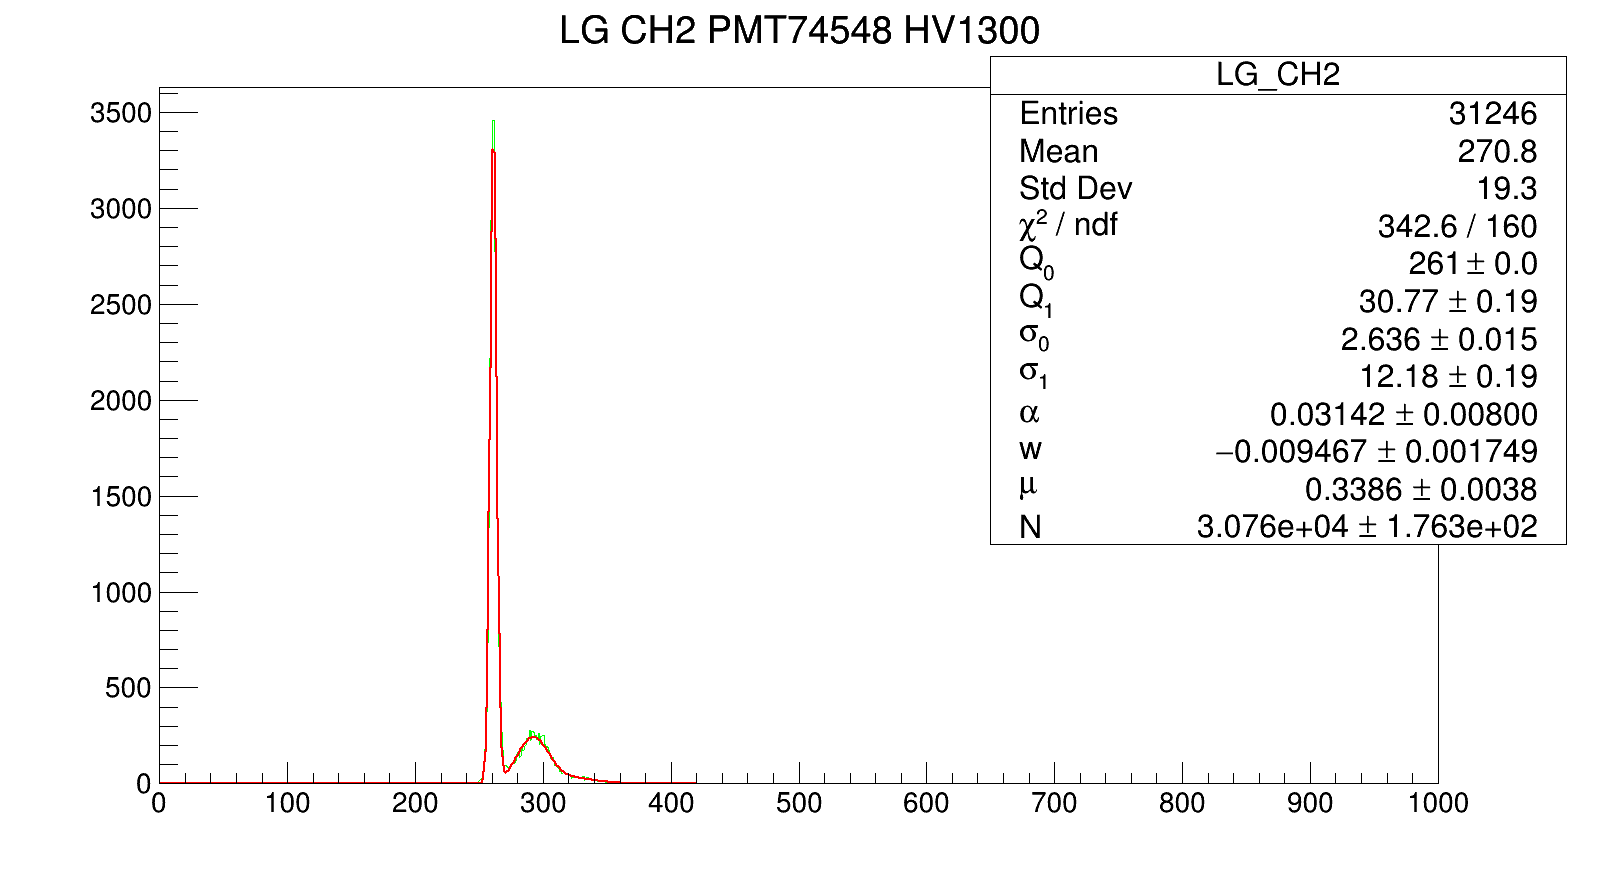
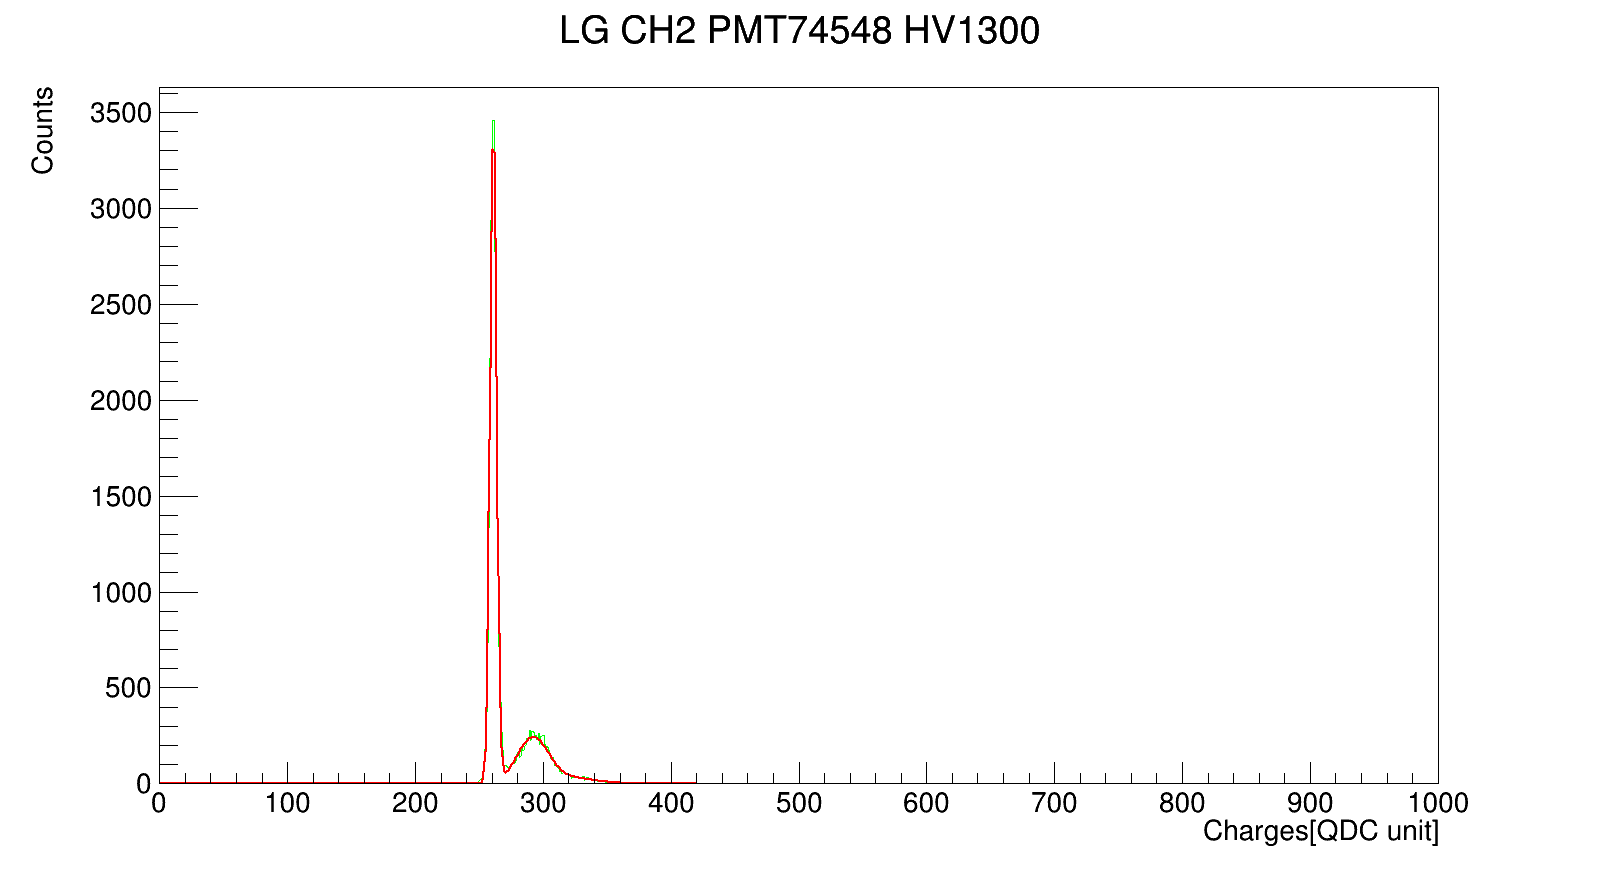
Adding descriptions

diff --git a/example_02.cc b/example_02.cc
@@ -1,0 +1,76 @@
+#include "PMTClass.C"
+#include "FitFunction.C"
+double ExtractGain(TH1D*,TF1*);
+
+void example_02(){
+    // Change the default setting of plotting fitResults or not.
+    gStyle->SetOptFit(1);
+
+    // Preparing the informations for PMTClass, for exampple like file name of data, index of PMT, high voltage you set.
+    string fileName[5] = {
+        "./dataFile/74548_HV1100_qdcCH2.txt",
+        "./dataFile/74548_HV1150_qdcCH2.txt",
+        "./dataFile/74548_HV1200_qdcCH2.txt",
+        "./dataFile/74548_HV1250_qdcCH2.txt",
+        "./dataFile/74548_HV1300_qdcCH2.txt"
+    };
+    vector<int> pmtName{0,1,74548,3,4,5,6,7};
+    int CH2_HV[5] = {1100,1150,1200,1250,1300};
+    vector<int> pmtHV[5];
+    for(int i = 0;i<5;i++){
+        pmtHV[i].resize(8);
+        pmtHV[i][2] = CH2_HV[i];
+    }
+
+    // Creating a vector, which can save multiple files, for example data file 1,2,3,4,5 will be in the data[0],data[1],data[2].data[3].data[4].
+    vector<PMTClass> data;
+    for(int i = 0;i<5;i++)
+        data.push_back(PMTClass(fileName[i],pmtName,pmtHV[i]));// Processing data in this line.
+    
+    // TGraphErrors is a class that can save multiple x-y points with error bar, in our case is HV-Gain.
+    TGraphErrors* GainCurve = new TGraphErrors();
+
+    // Array of double for saving Gain, 5 data files = 5 Gains.
+    double Gain[5];
+
+    // Create canvas for the previous graph to plot on.
+    // and devude this canvas to 3x2 (horizontal x vertical)
+    TCanvas* c = new TCanvas("c","c",2400,900);
+    c->Divide(3,2);
+
+    TF1* array_f[5];// Array of 5 TF1 to fit 5 CH2 charges spectrum.
+    for(int i = 0;i<5;i++){
+        array_f[i] = new TF1(TString::Format("f%i",i),"[7]*Sreal(x,[0],[1],[2],[3],[4],[5],[6])",0,1000);
+        c->cd(i+1);
+        Gain[i] = ExtractGain( data[i].LG_charge_hists[2], array_f[i]);// Fitting was done in this function, and this function will return the gain value from fitting.
+        GainCurve->SetPoint(i,CH2_HV[i],Gain[i]);// Set x-y value, the first "i" is the index of this point.
+    }
+    
+    gStyle->SetOptFit(0);
+    TCanvas* c1 = new TCanvas("c2","c2",1600,900);
+
+    GainCurve->SetTitle("PMT 74548 Gain versus HV;HV;Gain");// SetTitle("Title; X-title; Y-title")
+    GainCurve->GetXaxis()->CenterTitle(kTRUE);
+    GainCurve->GetYaxis()->CenterTitle(kTRUE);
+    GainCurve->SetMarkerStyle(8);
+    GainCurve->SetMarkerSize(1.5);
+    GainCurve->SetMarkerColor(kBlue);
+    GainCurve->GetYaxis()->SetMoreLogLabels();
+
+    GainCurve->Fit("expo");
+    GainCurve->GetFunction("expo")->SetLineColor(kBlue);
+    GainCurve->GetFunction("expo")->SetLineStyle(3);
+
+    c1->cd();
+    gPad->SetLogy();
+    gPad->SetGrid();
+    GainCurve->Draw("ap");
+}
+
+double ExtractGain(TH1D* h, TF1* f){
+    f->SetParNames("Q_{0}","Q_{1}","#sigma_{0}","#sigma_{1}","#alpha","w","#mu","N");
+    f->SetParameters(h->GetMaximumBin(),20,3,10,0.1,0.01,0.10,h->GetEntries());
+    f->SetNpx(1000);// Horizontal resolution of drawing this formula.
+    h->Fit(f);
+    return f->GetParameter(1)*25e-15/1.6e-19;
+}

diff --git a/example_01.cc b/example_01.cc
@@ -1,0 +1,49 @@
+#include "PMTClass.C"
+#include "FitFunction.C"
+
+void example_01(){
+    gStyle->SetOptStat(0);
+    //gStyle->SetOptFit(1);
+
+    vector<int> pmtName{0,1,74548,3,4,5,6,7};
+    vector<int> pmtHV{0,0,1300,0,0,0,0,0};
+    PMTClass data1("./dataFile/74548_HV1300_qdcCH2.txt",pmtName,pmtHV);
+
+    TCanvas* c = new TCanvas("c","c",3200,900);
+    c->Divide(2,1);
+    TLegend* lg = new TLegend(0.65,0.4,0.9,0.9);
+    for(int ch = 0;ch<8;ch++){
+        data1.LG_charge_hists[ch]->SetLineColor(ch+1);
+        data1.HG_charge_hists[ch]->SetLineColor(ch+1);
+        if(ch==0){
+            c->cd(1);
+            data1.LG_charge_hists[ch]->Draw();
+            c->cd(2);
+            data1.HG_charge_hists[ch]->Draw();
+        }
+        else{
+            c->cd(1);
+            data1.LG_charge_hists[ch]->Draw("SAME");
+            c->cd(2);
+            data1.HG_charge_hists[ch]->Draw("SAME");
+        }
+        lg->AddEntry(data1.LG_charge_hists[ch],TString::Format("CH%i",ch),"l");
+    }
+    c->cd(1);
+    lg->Draw("SAME");
+    c->cd(2);
+    lg->Draw("SAME");
+    c->SaveAs("test.png");
+    
+
+    TH1D* h = data1.LG_charge_hists[2];
+    TF1* f = new TF1("f","[7]*Sreal(x,[0],[1],[2],[3],[4],[5],[6])",0,1000);
+    f->SetParNames("Q_{0}","Q_{1}","#sigma_{0}","#sigma_{1}","#alpha","w","#mu","N");
+    f->SetParameters(h->GetMaximumBin(),20,3,10,0.1,0.01,0.10,h->GetEntries());
+    TCanvas* c1 = new TCanvas("c1","c1",1600,900);
+    c1->cd();
+    f->SetNpx(1000);
+    h->Fit(f);
+
+    c1->SaveAs("fitExample.png");
+}
